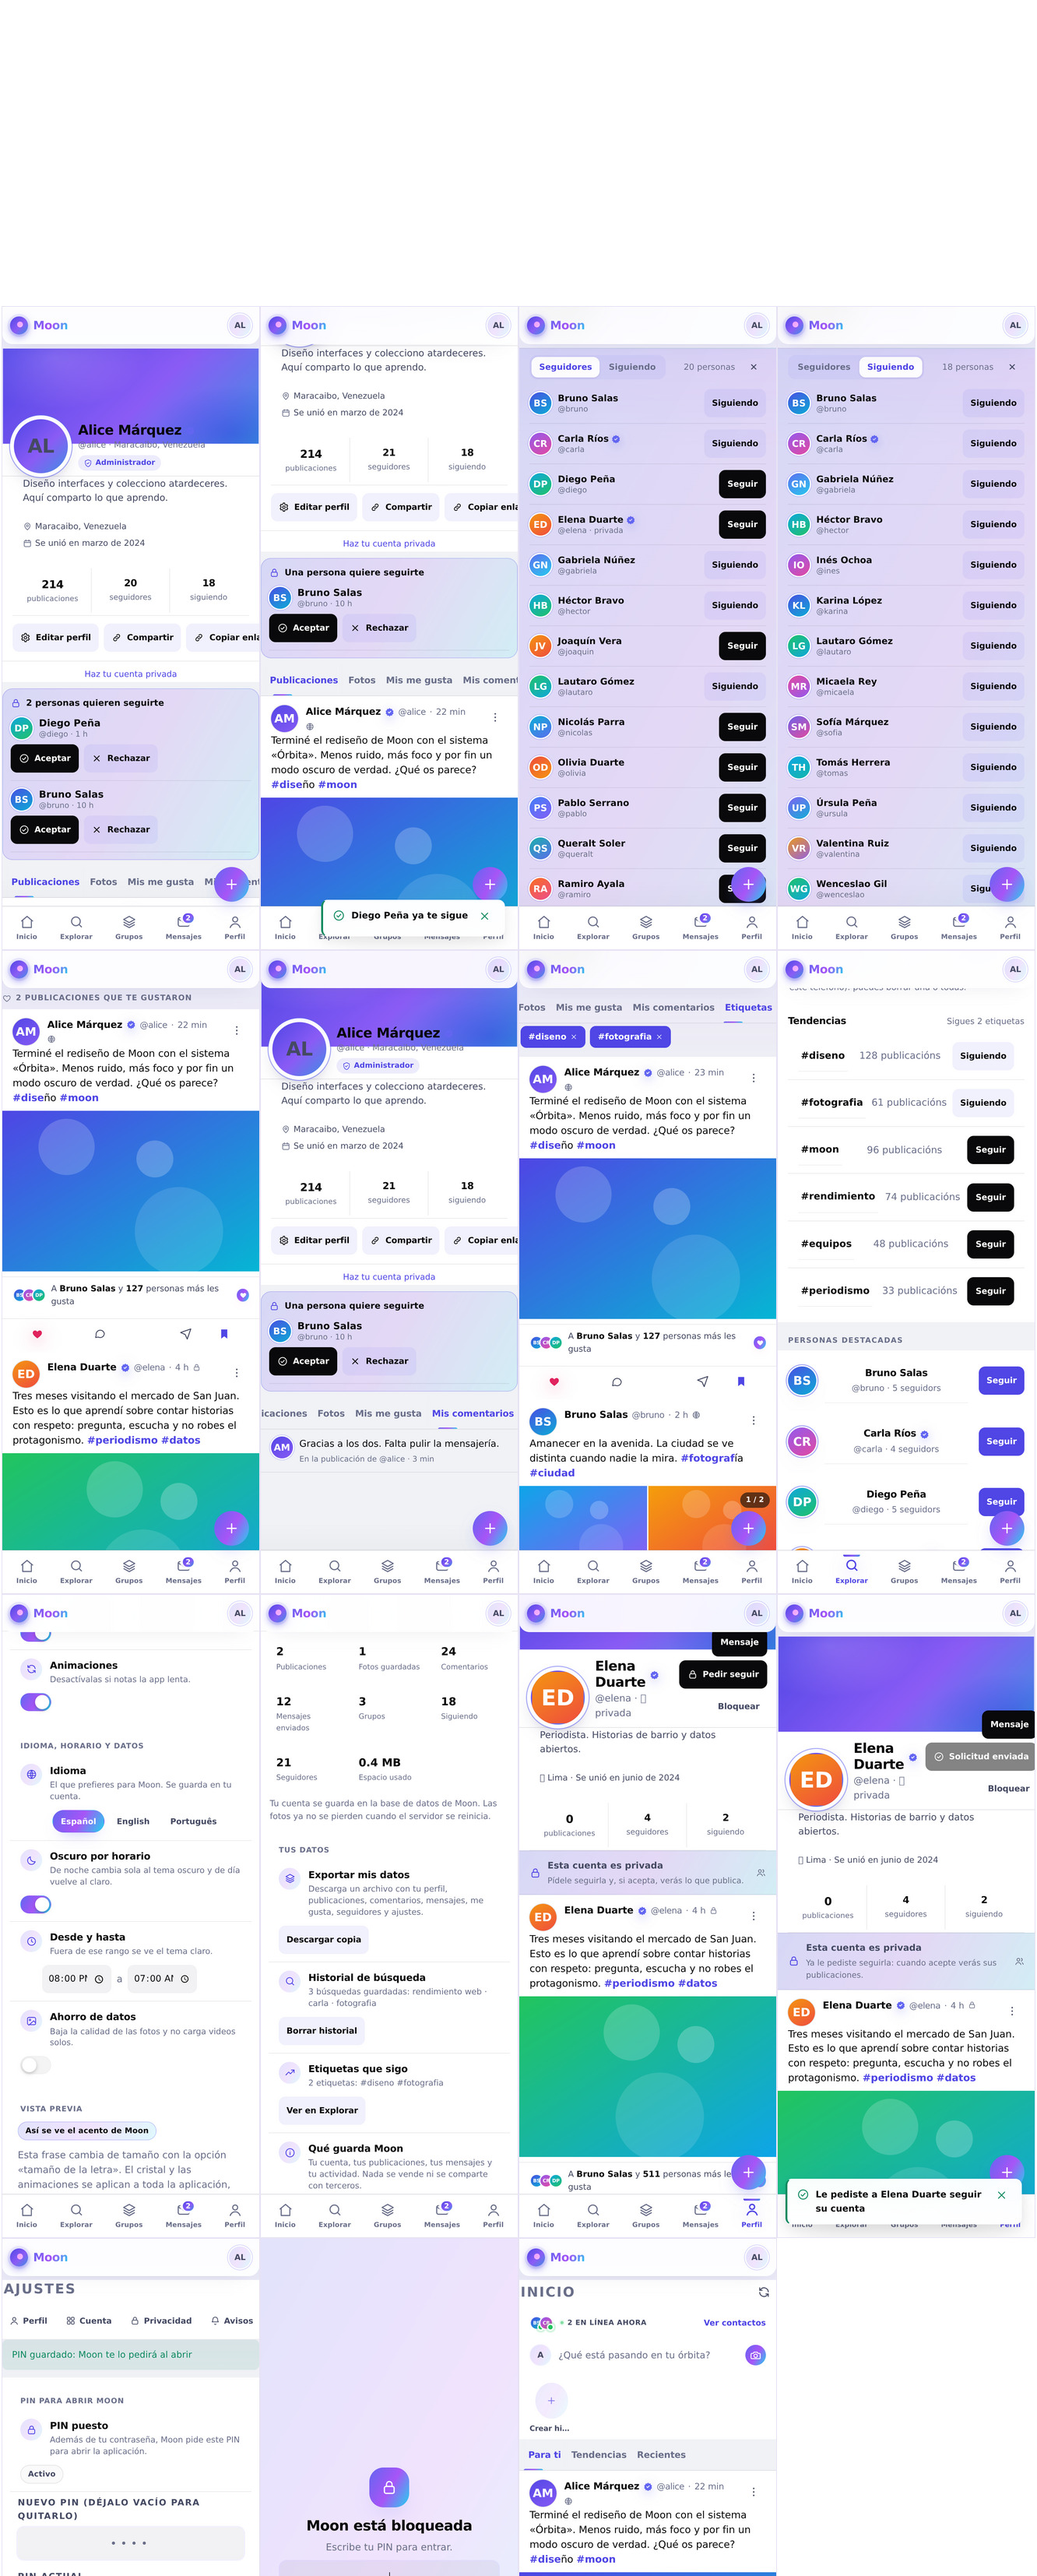
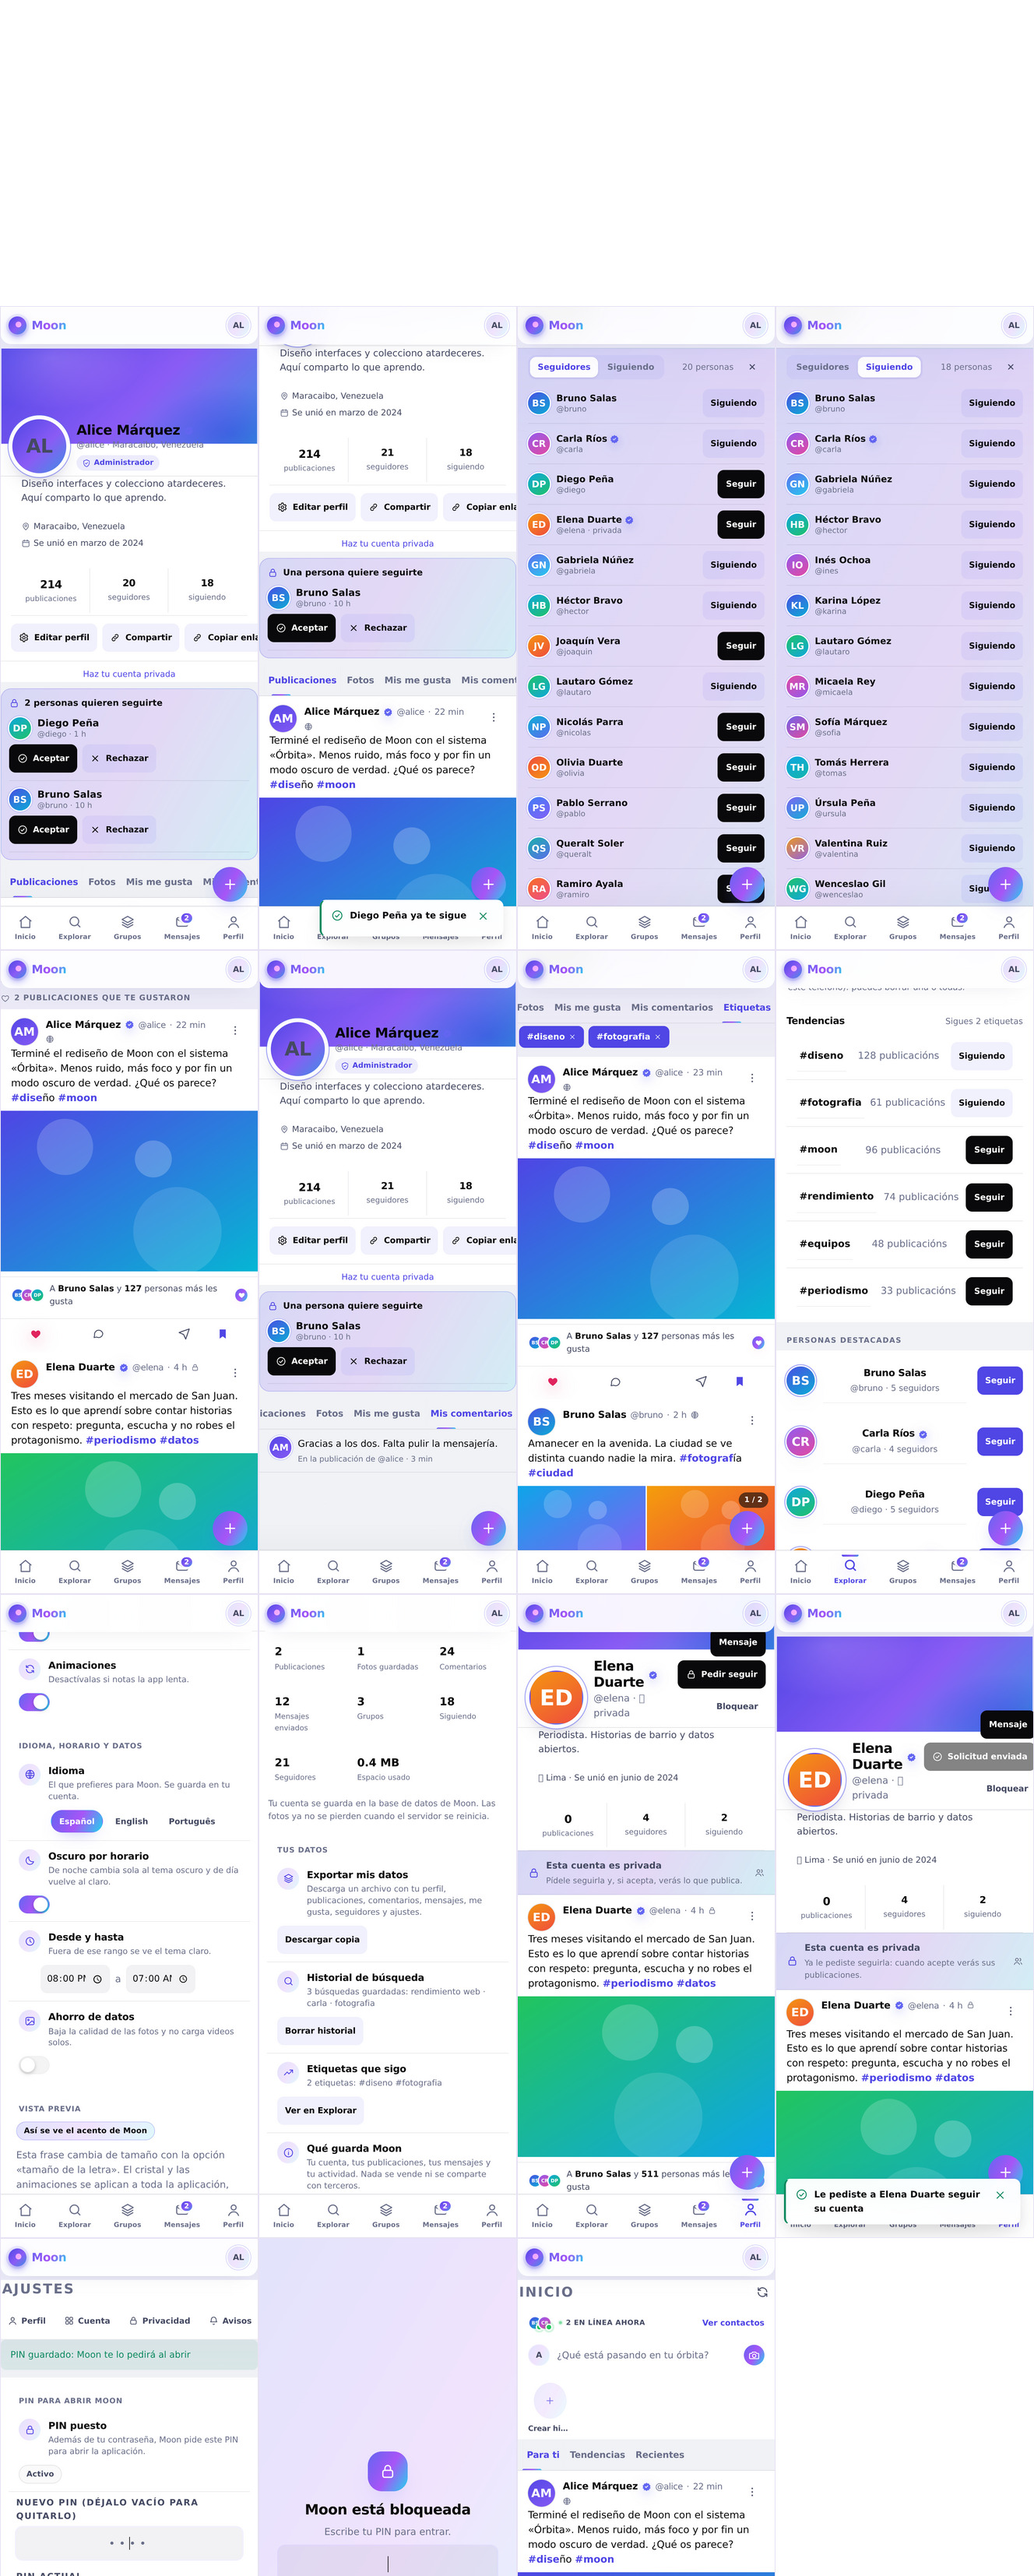
Candado del PIN: salida si se olvida (entrar con contraseña lo abre)

diff --git a/frontend/src/auth.jsx b/frontend/src/auth.jsx
@@ -18,6 +18,9 @@ export function AuthProvider({ children }) {
 
   const applySession = useCallback((resp) => {
     saveTokens(resp.access_token, resp.refresh_token);
+    // Quien entra con su contraseña (o su código de 2FA) ya probó quién es:
+    // el candado del PIN queda abierto en esta pestaña y siempre hay salida.
+    try { sessionStorage.setItem('moon_pin_abierto', 'si'); } catch { /* sin almacén */ }
     if (resp.user) {
       saveUser(resp.user);
       setUser(resp.user);

diff --git a/frontend/src/components/BloqueoPin.jsx b/frontend/src/components/BloqueoPin.jsx
@@ -86,6 +86,9 @@ export default function BloqueoPin({ onAbierto }) {
         >
           No soy yo: cerrar la sesión
         </button>
+        <p className="muted bloqueo-ayuda">
+          ¿Olvidaste el PIN? Cierra la sesión y entra con tu contraseña: Moon se abre igual.
+        </p>
       </div>
     </div>
   );

diff --git a/frontend/src/aurora.css b/frontend/src/aurora.css
@@ -4298,6 +4298,13 @@ html, body { max-width: 100%; overflow-x: hidden; }
 }
 
 /* ---------- 44.7 El candado del PIN ---------- */
+.bloqueo-ayuda {
+  font-size: 12.5px;
+  max-width: 280px;
+  text-align: center;
+  margin: 2px 0 0;
+}
+
 .bloqueo-pin {
   position: fixed;
   inset: 0;
